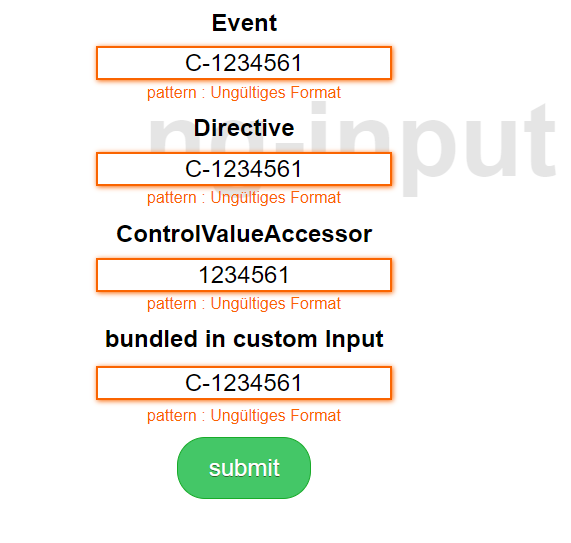
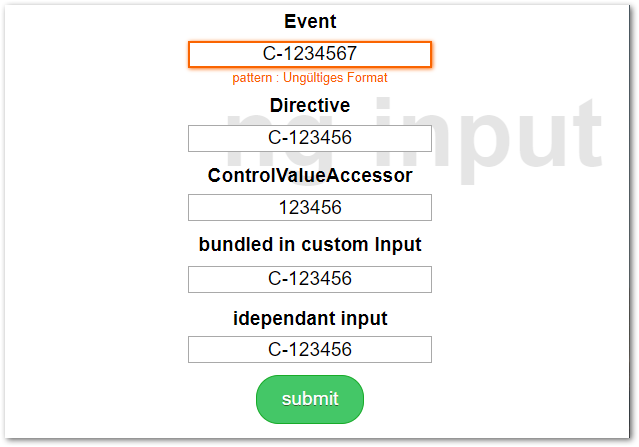
Input Demo

Changed region(s): [[0.0, 0.0, 1.0, 1.0], [0.655, 0.7852, 0.6848, 0.8143]]

diff --git a/src/app/customernumber-input/customernumber-input.component.ts b/src/app/customernumber-input/customernumber-input.component.ts
@@ -1,0 +1,75 @@
+import { Component, OnInit, ViewChild, ElementRef, Input, forwardRef, Injector, Renderer2 } from '@angular/core';
+import { ControlValueAccessor, NG_VALUE_ACCESSOR, NgModel, NgControl } from '@angular/forms';
+import { Type } from '@angular/core';
+
+@Component({
+  selector: 'ged-customernumber-input',
+  templateUrl: './customernumber-input.component.html',
+  styleUrls: ['./customernumber-input.component.scss'],
+  providers: [
+    {
+      provide: NG_VALUE_ACCESSOR,
+      useExisting: forwardRef(() => CustomernumberInputComponent),
+      multi: true
+    }
+  ]
+})
+export class CustomernumberInputComponent implements ControlValueAccessor {
+
+  value: string;
+
+  disabled: boolean;
+
+  touched: boolean;
+
+  changeFn: (_: any) => void;
+
+  touchFn: () => void;
+
+  invalid: boolean;
+
+  @ViewChild('input', { static: false })
+  inputElement: ElementRef;
+
+  constructor(private injector: Injector) { }
+
+  onBlur() {
+    this.update();
+  }
+
+  onFocus() {
+    this.touchFn();
+  }
+
+  onChange(event) {
+    this.value = event.target.value;
+  }
+
+  get control(): NgControl {
+    return this.injector.get<NgControl>(NgControl as Type<NgControl>);
+  }
+
+  private update() {
+    const ele: HTMLInputElement = this.inputElement.nativeElement;
+    this.changeFn(ele.value);
+
+    this.touched = true;
+    this.invalid = !this.control.valid;
+  }
+
+  writeValue(obj: any): void {
+    this.value = obj;
+  }
+
+  registerOnChange(fn: any): void {
+    this.changeFn = fn;
+  }
+
+  registerOnTouched(fn: any): void {
+    this.touchFn = fn;
+  }
+
+  setDisabledState?(isDisabled: boolean): void {
+    this.disabled = isDisabled;
+  }
+}

diff --git a/src/app/app.module.ts b/src/app/app.module.ts
@@ -7,6 +7,7 @@ import { ValidationErrorMarkerComponent } from './validation-error-marker/valida
 import { CustomernumberFormatterDirective } from './customernumber-formatter.directive';
 import { CustomernumberFormatterAccessorDirective } from './customernumber-formatter-accessor.directive';
 import { InputComponent } from './input/input.component';
+import { CustomernumberInputComponent } from './customernumber-input/customernumber-input.component';
 
 @NgModule({
   declarations: [
@@ -14,7 +15,8 @@ import { InputComponent } from './input/input.component';
     ValidationErrorMarkerComponent,
     CustomernumberFormatterDirective,
     CustomernumberFormatterAccessorDirective,
-    InputComponent
+    InputComponent,
+    CustomernumberInputComponent
   ],
   imports: [
     BrowserModule,

diff --git a/src/app/customernumber-formatter-accessor.directive.ts b/src/app/customernumber-formatter-accessor.directive.ts
@@ -18,6 +18,10 @@ export class CustomernumberFormatterAccessorDirective implements ControlValueAcc
   updateValue: any;
   touched: any;
 
+  /**
+   * Model > View, wir entfernen das C- Präfix sodass es nicht mit angezeigt wird.
+   * @param obj
+   */
   writeValue(obj: any): void {
     obj = obj.replace('C-', '');
     this.renderer.setProperty(this.el.nativeElement, 'value', obj);
@@ -27,6 +31,11 @@ export class CustomernumberFormatterAccessorDirective implements ControlValueAcc
     this.updateValue = fn;
   }
 
+  /**
+   * Update-Trigger, optional setzen wie das C- Präfix wieder davor, damit sieht der User es nicht, ist aber im Model.
+   *
+   * @param event
+   */
   @HostListener('blur', ['$event'])
   onInput(event: any) {
     this.touched();

diff --git a/src/app/customernumber-input/customernumber-input.component.spec.ts b/src/app/customernumber-input/customernumber-input.component.spec.ts
@@ -1,0 +1,25 @@
+import { async, ComponentFixture, TestBed } from '@angular/core/testing';
+
+import { CustomernumberInputComponent } from './customernumber-input.component';
+
+describe('CustomernumberInputComponent', () => {
+  let component: CustomernumberInputComponent;
+  let fixture: ComponentFixture<CustomernumberInputComponent>;
+
+  beforeEach(async(() => {
+    TestBed.configureTestingModule({
+      declarations: [ CustomernumberInputComponent ]
+    })
+    .compileComponents();
+  }));
+
+  beforeEach(() => {
+    fixture = TestBed.createComponent(CustomernumberInputComponent);
+    component = fixture.componentInstance;
+    fixture.detectChanges();
+  });
+
+  it('should create', () => {
+    expect(component).toBeTruthy();
+  });
+});

diff --git a/src/styles.scss b/src/styles.scss
@@ -1,3 +1,38 @@
 * {
   font-family: Arial, Helvetica, sans-serif;
 }
+
+input,
+button {
+  font-size: 1.5em;
+  text-align: center;
+
+  transition: linear 0.1s;
+}
+
+input.ng-invalid.ng-touched {
+  border: 2px solid #fa6400;
+  box-shadow: 1px 1px 5px #fa6400;
+}
+
+button {
+  background-color: #44c767;
+  border-radius: 28px;
+  border: 1px solid #18ab29;
+  display: inline-block;
+  cursor: pointer;
+  color: #ffffff;
+  padding: 16px 31px;
+
+  text-shadow: 0px 1px 0px #2f6627;
+  &:focus {
+    outline: 0;
+  }
+  &:hover {
+    background-color: #5cbf2a;
+  }
+  &:active {
+    position: relative;
+    top: 1px;
+  }
+}

diff --git a/src/app/app.component.scss b/src/app/app.component.scss
@@ -17,38 +17,3 @@ article {
     margin: 0.2em;
   }
 }
-
-input,
-button {
-  font-size: 1.5em;
-  text-align: center;
-
-  transition: linear 0.1s;
-}
-
-input.ng-invalid.ng-touched {
-  border: 2px solid #fa6400;
-  box-shadow: 1px 1px 5px #fa6400;
-}
-
-button {
-  background-color: #44c767;
-  border-radius: 28px;
-  border: 1px solid #18ab29;
-  display: inline-block;
-  cursor: pointer;
-  color: #ffffff;
-  padding: 16px 31px;
-
-  text-shadow: 0px 1px 0px #2f6627;
-  &:focus {
-    outline: 0;
-  }
-  &:hover {
-    background-color: #5cbf2a;
-  }
-  &:active {
-    position: relative;
-    top: 1px;
-  }
-}

diff --git a/src/app/app.component.ts b/src/app/app.component.ts
@@ -20,7 +20,7 @@ export class AppComponent {
     customernumber2: ['C-123456', { validators: [this.customernumberValidator.validate], updateOn: 'blur' }],
     customernumber3: ['C-123456', { validators: [this.customernumberValidator.validate] }],
     customernumber4: ['C-123456', { validators: [this.customernumberValidator.validate], updateOn: 'blur' }],
-
+    customernumber5: ['C-123456', { validators: [this.customernumberValidator.validate] }]
   });
 
   submit() {

diff --git a/src/app/app.component.html b/src/app/app.component.html
@@ -14,6 +14,8 @@
     <ged-input>
       <input type="text" formControlName="customernumber4" gedCustomernumberFormatter />
     </ged-input>
+    <h2>idependant input</h2>
+    <ged-customernumber-input formControlName="customernumber5"></ged-customernumber-input>
 
     <button type="submit">submit</button>
   </article>

diff --git a/src/app/customernumber-input/customernumber-input.component.html b/src/app/customernumber-input/customernumber-input.component.html
@@ -1,0 +1,5 @@
+<div class="input">
+  <input type="text" #input [value]="value" [disabled]="disabled" (blur)="onBlur()" (focus)="onFocus()"
+    [class.ng-touched]="touched" [class.ng-invalid]="invalid" />
+  <ged-validation-error-marker [control]="control"></ged-validation-error-marker>
+</div>

diff --git a/src/app/customernumber-input/customernumber-input.component.scss b/src/app/customernumber-input/customernumber-input.component.scss
@@ -1,0 +1,10 @@
+div.input {
+  display: flex;
+  flex-direction: column;
+
+  align-items: center;
+}
+
+ged-validation-error-marker {
+  margin-top: 0.4em;
+}
